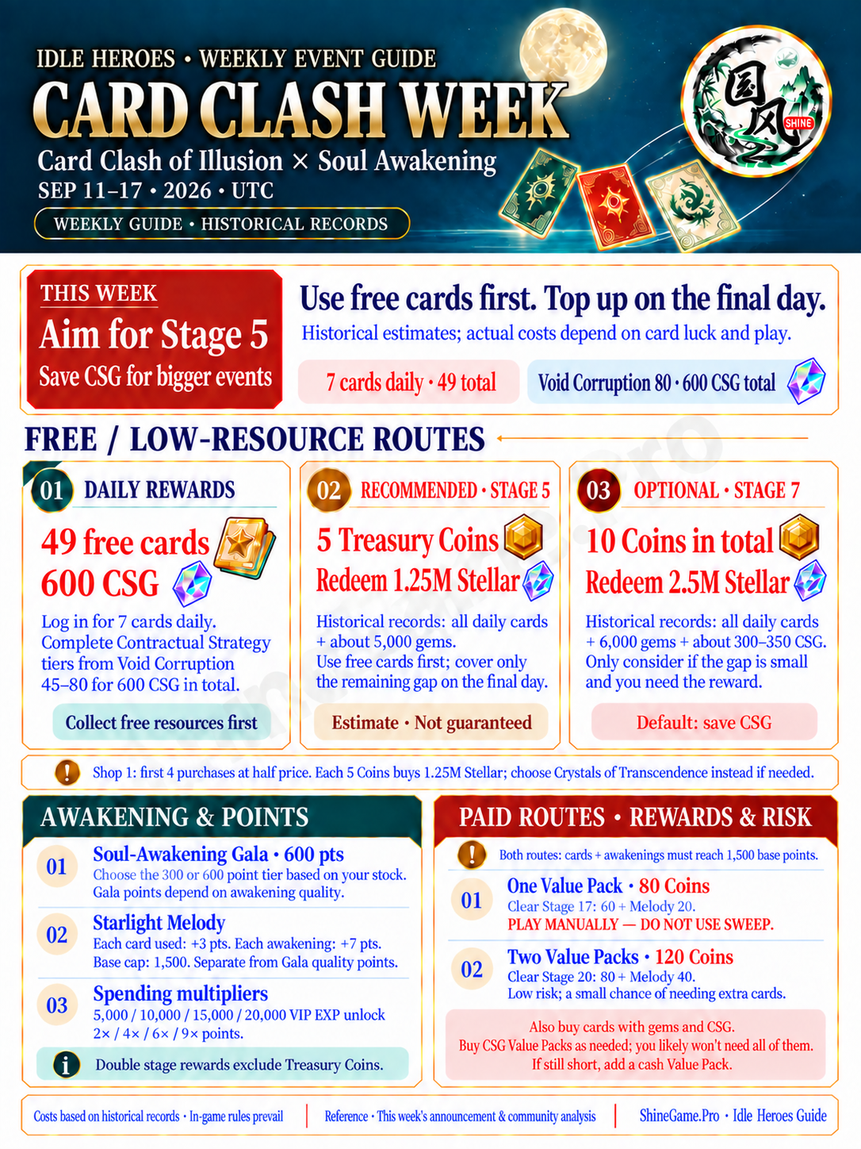
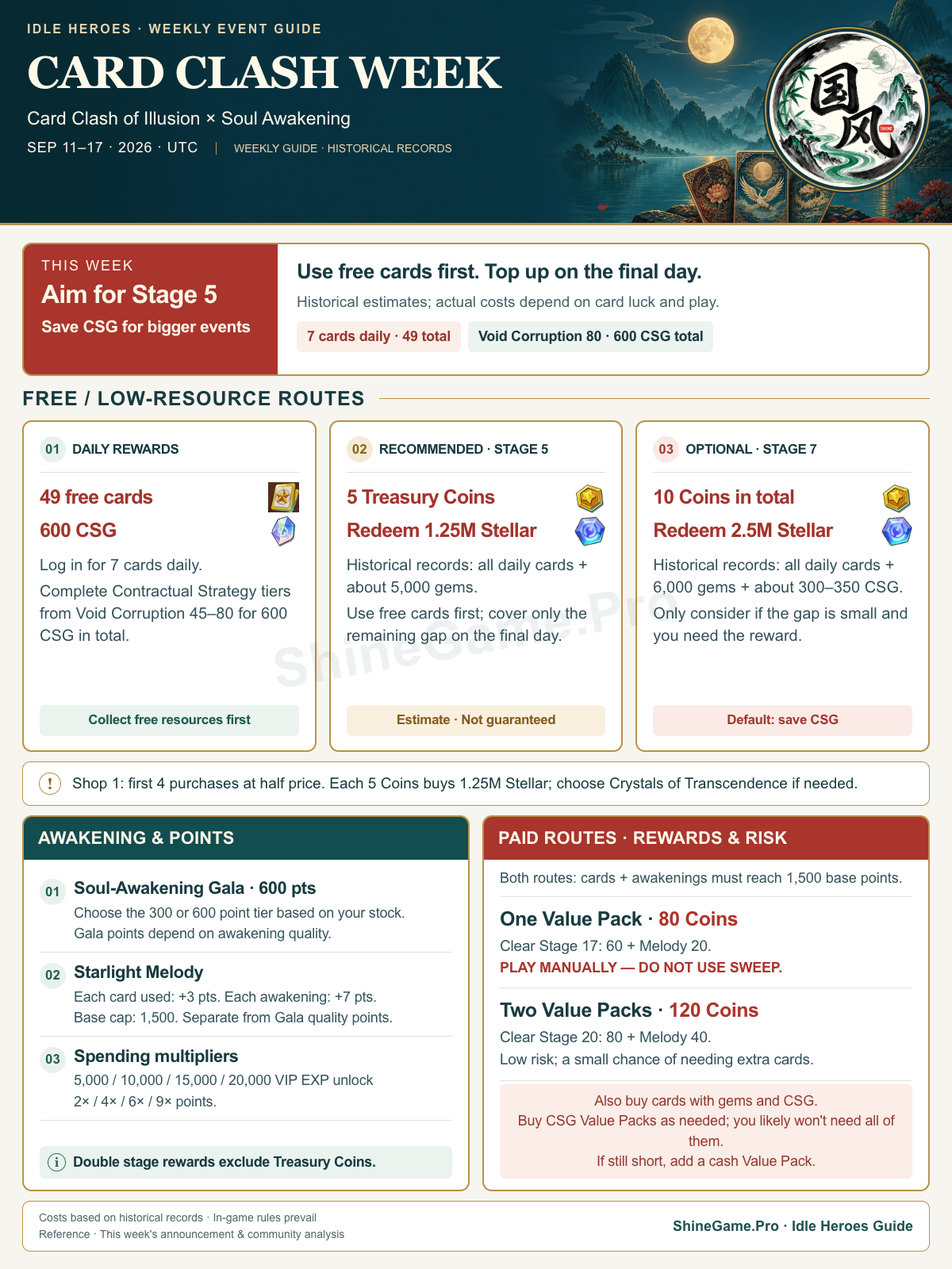
Publish crisp bilingual weekly guide with editable source workflow

diff --git a/skills/ih-guide-images/SKILL.md b/skills/ih-guide-images/SKILL.md
@@ -1,0 +1,79 @@
+---
+name: ih-guide-images
+description: 在 repo1 项目制作、修改和核对 Idle Heroes 攻略图，重点支持周活动的 Discord 资料核对、中文文案审阅、预览及中英文正式图。普通玩法攻略复用视觉与验收流程，不套用周活动奖励或来源。
+---
+
+# Idle Heroes 攻略图
+
+项目内攻略图的默认入口。按用户本轮要求选择记录、文案、预览或正式制作；使用本技能不代表授权生成、付费调用或发布。
+
+以下项目路径均相对仓库根目录（本文件所在目录向上两级）。先读当前 `HANDOFF.md`（如有），只取最新状态，不沿用被后续消息取代的路线。
+
+## 资料与文案
+
+周活动固定来源：
+- 公告：https://discord.com/channels/266570913854521346/600387218086952977
+- 分析：https://discord.com/channels/266570913854521346/791624031098896404
+
+制作新一周时核对公告正文、奖励图片和当周分析，记录活动日期、时区、消息链接及读取时间。优先使用可用连接器，否则通过已登录浏览器查看；无法读取就说明缺口，不把旧资料说成最新。只修改已确认文案时不必反复联网；用户说晚点核对，就保留待核对状态。
+
+先读 `docs/guide-translations.md` 获取术语，视觉和发布细节查 `docs/guide-images.md`。普通玩法攻略使用对应知识笔记及原始来源，不强行查周活动频道。
+
+在 `IHassistant/knowledge/` 的对应笔记中分开保存：公告事实、历史经验、用户建议、推算和待确认事项。事实冲突必须指出；推荐优先级沿用用户确认口径。知识修改后运行 `node scripts/build-ih-knowledge-index.mjs`。
+
+涉及活动数字时分别核算：
+- 免费卡、购买卡、VIP档位赠卡、现金礼包直接给卡，不能漏算或重复计入。
+- 资源购买上限、已购数量及补充渠道；买满绑钻礼包后不要再建议购买同类超限礼包。
+- 把“买满后的供卡上限”与“预计实际需要购买量”分开。社区与用户的礼包组合不同时分别计算，不能只按相同现金档位套用收益范围。
+- 核对手动、扫荡等操作方式是否改变消耗或通关结论。依赖手动的路线要在成图显式注明，不能为了精简文案省略操作条件。
+- 单关奖励与累计奖励、基础积分与倍率、卡牌/觉醒次数积分与觉醒品质积分。倍率只作用于来源明确指定的奖励。
+- 达成关卡及积分条件后才得到的收益，不写成购买礼包即保证获得。少量历史记录不能证明成功概率；用户经验风险判断要在笔记里注明来源。
+
+成图只呈现有助于决策的内容：推荐目标、投入组合、收益、必要前提和简短风险。详细算式留在笔记，用户要求才展开。可用确认过身份的道具图标＋数量省略重复资源名。
+
+中文使用自然说法，如“最后一天”“按实际进度补缺口”，不用“末日”。不放“公告已核对”之类制作过程说明。引用历史经验时写“参考历史记录”，旧日期与频道长链接只留在资料笔记。
+
+## 按当前请求交付
+
+- **先记录／晚点再改**：更新现有项目记录，不调用图像生成。
+- **文案审阅**：提供完整、可审核的成图文案；用户指定先 review 时，正式图等确认后再做。
+- **中文预览**：按已有口径制作中文预览，明确尚未核对的来源；不顺带生成英文或发布。保留版本文件和提示词在 `output/<主题或日期>/`。
+- **正式版**：确保本轮所需资料已核对、文案已确认；周图默认制作匹配中英文，用户只要中文则遵从。仅翻译不改变数值、条件、风险或承诺。旧英文稿不能当最新稿。
+
+每次修订维护一个清楚的“当前稿”，将旧版本标为追溯资料；不要不断追加多个互相冲突的“最新”段落。优先复用现有记录，只有未完成工作需要交接时维护 `HANDOFF.md`。
+
+## 视觉与生成
+
+最新默认视觉是**简洁国风顶部＋纯色正文**：顶部可用月夜山水、少量卡牌或当周主题元素，给标题留出干净空间；正文框不用山水、竹叶、红枫或纹理背景。彩色功能条和道具图标可保留。用户另有明确要求时再调整。
+
+周图沿用深青／水墨、玉绿、朱砂红、克制古金和暖白配色。标题、摘要、资源路线、积分／付费及底注分层清楚，不固定每周必须有相同数量路线。
+
+- 周图使用原始透明国风Logo `flipgame/assets/guofeng-guild-logo.png`，不要让模型反复重画字样或印章。1200×1600设计基准的Logo为196×196，2倍输出对应392×392。普通攻略沿用项目ShineGame Logo/QR规则。
+- 自制中文和英文各保留**一处**淡色斜向 `ShineGame.Pro` 水印，横向居中并位于画面中部的正文区域；大小应能跨越中部内容区，不能缩成某张卡片的角标。文字放在水印上层，保持关键数字清楚，并检查整行水印没有被卡片或标签截断；页眉及Logo区保持干净。外部原图及其直接翻译不加自制水印。
+- 底注品牌固定 `ShineGame.Pro · Idle Heroes Guide`；并入现有不透明说明卡，不额外堆底栏。紧凑元数据用 `·` 分隔。
+- 图标优先用户提供图及来源中身份已核对的素材，保存来源映射。不要混淆卡牌、钻石、绑钻、星碎和宝库币。
+
+### 默认制作流程：确认文案后，从可编辑源稿导出
+
+密集文字攻略默认采用分层排版。先确定完整中英文文案，将其保存为独立的文本或结构化数据；数字、条件和风险以这份文案为准。复用当前已确认口径时不重新启动内容审批。
+
+- **干净素材**：需要插画时，用 `imagegen` 单独生成无文字的背景或装饰素材。Logo 和已核实的道具图标直接复用原始文件，不交给模型重画；正文使用纯色底。
+- **可编辑排版**：在 HTML/CSS、SVG 或其他适用的可编辑源稿中独立绘制文字、边框、色块和一处水印。可编辑源稿是修改入口，导出的 PNG 是交付产物。
+- **每次重新导出**：改文案或布局时修改源文件，再从原始素材重新渲染整张图。沿用未改动的干净背景即可，不必每次重生成插画；不把上一版成图作为下一轮补字或翻译的底图。旧成图只用于对照内容或风格。
+- **双语分别排版**：中英文共享版式和素材，从各自确认文案分别渲染；允许按语言调整字号、换行和留白，不能为挤进框里省略条件或缩小关键数字。
+- **原生尺寸导出**：当前周图默认从1200×1600排版源按1倍像素密度直接导出；用户需要更大图时，再从同一源稿按2倍渲染2400×3200，不先输出小PNG再放大。检查插画及图标的真实像素与最终显示尺寸，避免低清素材被过度放大。
+- **保留复现入口**：在 `output/<主题或日期>/` 保留当前文案、排版源、素材来源、生成提示词及导出命令。修订可以覆盖尚在调整的同一预览版本；已交付旧版本保留追溯。水印优先在源稿里生成一次。
+
+9/11双语重制的可运行例子及验收记录见 [从源稿重制的示例](references/clean-source-workflow.md)。该例的周活动文案只适用于对应日期，复用布局不能沿用过期数字。
+
+用户明确要求整张图由图像模型生成时，遵从指定方式；仍从确认文案和干净素材重新生成，并核对所有文字与真实尺寸，不承诺提示词能保证清晰或逐像素不变。使用图像生成或编辑时读取可用的 `imagegen` 技能并遵从其工具规则。不要为提升尺寸擅自改用付费API，不用脚本绕过当前图像编辑工具限制；上述可编辑排版流程是新建源稿，不是对旧位图进行脚本修补。
+
+当前周图默认1200×1600，以实际小字清楚、边框和素材干净为准；不强制每次生成2400×3200。**提示词写了高清不代表输出达到高清**：检查真实像素及100%小字，放大低分辨率图片不能证明恢复细节。若用户指定其他尺寸而未达到，如实说明；是否切换工具按其实际授权规则处理。复用素材并在本地重新导出不调用图像模型，不把缩小导出PNG说成已按像素比例节省生成token。
+
+## 验收与发布边界
+
+打开最终中英文文件目视检查日期、小字、全部数字、资源图标、Logo原字、纯色正文、水印单处可见、底注及边缘遮挡。除了整图，还要查看100%原尺寸局部，检查细边框、字缘和背景细节；有HTML等排版源时检查字体和图片已加载、容器溢出与元素遮挡。可用 `sips -g pixelWidth -g pixelHeight <图片>` 核对真实尺寸。文字层清晰不能代替素材清晰度验收。源稿已有水印时不再运行水印脚本；无水印图如需使用该脚本，先遵守适用工具规则且仅执行一次。结构检查不能代替视觉验收。
+
+预览保存在 `output/`；正式站内图片按 `docs/guide-images.md` 放入 `flipgame/images/`。只在获得当次相应授权后提交、推送或部署，保留无关dirty改动。周图发布按该文档更新唯一当周入口和历史图集，中英文同步，使用本地HTTP预览及相关路由检查；未经线上验证不声称已发布。
+
+需要理解本次规范的来源、9/11路线或当前待办时，读 [本次对话总结](references/2026-09-11-session.md)。这是一个有日期边界的案例，不是每周通用活动规则。

diff --git a/docs/guide-images.md b/docs/guide-images.md
@@ -3,6 +3,8 @@
 页面：`flipgame/GuideImages.html`  
 图片目录：`flipgame/images/`
 
+项目攻略图默认技能：[`ih-guide-images`](../skills/ih-guide-images/SKILL.md)。本次周攻略讨论的总结和案例见[9/11 对话记录](../skills/ih-guide-images/references/2026-09-11-session.md)。
+
 ## 当前规则
 
 - 攻略图统一放在 `flipgame/images/`。
@@ -11,13 +13,13 @@
 - 页面内卡片手动维护标题、图片路径和描述。
 - 主页“周活动攻略”固定链接到 `GuideImages.html?guide=weekly-current`，进入后直接显示 fit 当前页面的本周图片，不展开历史周次；攻略页只保留一个周活动卡片，`data-image` / `data-image-en` 指向本周图片，`data-images` / `data-images-en` 按新到旧维护本周与历史周图片。只有在攻略图片列表中打开周活动卡片时，才显示带缩略图和日期的周次选择条，每次切换并显示一张。
 - 每周图片使用带日期的稳定文件名：中文 `weekly-event-YYYY-MM-DD.jpg`，英文 `weekly-event-YYYY-MM-DD-en.jpg`。更新当周时新增一组日期文件，并更新唯一周活动卡片的本周路径与历史图集列表；旧图片继续保留为历史归档。
-- 每周攻略默认导出 2400×3200 高清版（或同等 2× 像素密度），发布前必须按实际尺寸检查中英文小字清晰度。
+- 每周攻略当前默认导出 1200×1600，发布前按实际尺寸检查中英文小字清晰度；用户需要更大尺寸时，再从同一排版源直接导出2400×3200。
 - 普通站内攻略图保留 ShineGame 二维码；周活动攻略图按下方“周活动国风视觉规范”改用国风公会 Logo。用户明确要求外发无二维码版本时，另存为 `weekly-event-YYYY-MM-DD-<platform>.png`（例如 `-tieba.png`），不替换站内图片。
 - 有文字的站内生成攻略图同时维护英文 `*-en.png` 版本。`GuideImages.html` 读取首页保存的 `localStorage.flipgame_lang`：中文显示原图，英文显示 `data-image-en` / `data-images-en` 指向的英文图。
 - 底部品牌统一使用 `ShineGame.Pro  ·  Idle Heroes Guide`；底注和紧凑元数据使用中间点 `·` 分隔，不使用逗号串联。
 - 需要标注来源时使用简短的 `Reference · <来源>`，避免在图中放长链接或频道编号。
 - 自制攻略图在正文中段统一加一处淡色斜向 `ShineGame.Pro` 水印；页眉和二维码区域必须保持干净。外部收集原图，以及直接从外部原图翻译生成的版本，不加 ShineGame 水印。
-- Python 生成器会自动加水印。每周活动图等独立渲染产物，应在新鲜无水印源图上执行 `python3 scripts/apply-guide-watermark.py <输入图> <输出图>` 一次；不要对已带水印图片重复处理。导出后必须打开中英文最终图片，以肉眼确认正文中段的水印实际可见；模板或脚本中存在水印代码不算验收通过。
+- 优先在可编辑排版源中生成一处水印；已有Python生成器会自动加水印。只有源稿未带水印、且适用工具规则允许时，才在新鲜无水印图上执行 `python3 scripts/apply-guide-watermark.py <输入图> <输出图>` 一次；不要对已带水印图片重复处理。导出后必须打开中英文最终图片，以肉眼确认正文中段的水印实际可见；模板或脚本中存在水印代码不算验收通过。
 - 奇幻梦工厂隐藏关图片本身没有文字，中英文共用原图；远征推图使用单独的 `expedition-stage-map-en.png` 英文编号版。
 - 图片页面文案包含：`部分图片收集于网络，公众号。特此感谢作者！`
 - 部分图片已加站内二维码角标。
@@ -45,11 +47,14 @@
 - 周活动站内图右上角用国风 Logo 替代 ShineGame 二维码；中文与英文版本共用同一个 Logo。其他类型的站内攻略仍沿用 ShineGame Logo/二维码规则。
 - 设计源画布为 1200×1600 时，Logo 使用 196×196 px（约为画布宽度的 16.3%）；2× 导出为 2400×3200 时对应约 392×392 px。Logo 使用浅色圆形衬底、古金细边和深色外圈，保持字形清楚。
 - 主视觉配色固定为水墨黑 / 深青、玉石绿、朱砂红、克制的古金和暖白内容卡片；避免高饱和霓虹色或过多装饰。
+- 最新默认：顶部背景简洁，给标题留出干净空间；正文卡片使用纯色底，不添加山水、竹叶、红枫或纹理背景。道具图标、功能色条及单处淡水印保留。用户另有明确要求时再调整。
 - 推荐版式保持：深色主标题页眉、活动摘要卡、三张资源路线卡、双栏付费与避坑区、底部说明卡。每周可以替换内容，但保持阅读层级和留白节奏一致。
-- 正文中段必须保留一处淡色斜向 `ShineGame.Pro` 水印；水印不能压住关键数字，页眉和 Logo 区域保持干净。
+- 画面中部的正文区域保留一处淡色斜向 `ShineGame.Pro` 水印，横向居中、适当放大，不缩成单张卡片里的小角标。文字与关键数字置于水印上层，整行水印不应被标签等元素截断；页眉和Logo区域保持干净。
 - 底部品牌必须保持为 `ShineGame.Pro  ·  Idle Heroes Guide`，不要改成公会名。若已有底部说明卡，把品牌合并进该卡，不另加底栏。
 - 底部说明卡必须使用完全不透明的底色，并去掉会在圆角边缘露出主背景色的内阴影或彩色边条；重点检查左下角和右下角。
-- 最终中文、英文图均导出 2400×3200 高清版；发布前以实际像素尺寸检查标题、正文、数字、水印、Logo 与底部品牌的清晰度和遮挡情况。
+- 最终中文、英文图当前默认1200×1600；发布前以实际像素尺寸检查标题、正文、数字、居中水印、Logo与底部品牌的清晰度和遮挡情况。
+- 生成提示词中的尺寸不等于实际输出尺寸。必须读取文件像素；不能把1086×1448等尺寸的输出称为2400×3200高清图，简单放大也不能证明细节恢复。保留确认过的文案与干净素材，避免连续整图编辑造成文字模糊及Logo漂移。
+- 密集文字周图默认先确定中英文文案，再从干净素材建立可编辑排版源。插画单独生成，文字、边框、色块、水印独立排版，Logo和图标直接复用原文件。每次修改源稿并重新导出，不将上版PNG继续补字或作为英文翻译底图；流程与可运行示例见[`ih-guide-images`](../skills/ih-guide-images/SKILL.md#默认制作流程确认文案后从可编辑源稿导出)。
 
 ## 英文版生成
 
@@ -76,13 +81,19 @@
 
 ## 每周活动更新流程
 
-1. 根据当周资料制作中文和英文两张同版式 2400×3200 高清攻略图，按 `weekly-event-YYYY-MM-DD.jpg` / `weekly-event-YYYY-MM-DD-en.jpg` 保存；按实际尺寸检查正文、小字和数字清晰度。
+固定来源：先查看 [周更新公告](https://discord.com/channels/266570913854521346/600387218086952977)，再查看 [周更新分析](https://discord.com/channels/266570913854521346/791624031098896404)。分析未更新时可参考历史记录，但须逐项核对当周公告与奖励图片，不把旧活动名称、档位或英雄珍宝评价直接套用。
+
+- 成图只写“参考历史记录”，不显示旧分析的具体日期；完整来源链接与日期保留在知识笔记中。
+- 适当使用来源中实际的小道具图标，搭配数字与简短资源名，避免纯文字堆叠；先确认每个图标的身份，尤其区分钻石、绑钻、星碎和宝库币。图标保持小而清晰，不用猜测图案替代真实资源。
+- 活动名称与奖励档位分开写。例如 600 分 Soul-Awakening Gala 中的 100 分奖励档，不应写成一个独立的“100 分活动”；最高档也不等于人人都应该完成的目标。
+
+1. 根据当周资料制作中文和英文两张同版式1200×1600攻略图（用户指定时再导出更大尺寸），按 `weekly-event-YYYY-MM-DD.jpg` / `weekly-event-YYYY-MM-DD-en.jpg` 保存；按实际尺寸检查正文、小字和数字清晰度。
 2. 更新 `GuideImages.html` 最前面的唯一周活动卡片：`data-image` / `data-image-en` 改为当周图片，并把当周图片路径插入 `data-images` / `data-images-en` 列表最前面。
 3. 不另建历史周活动卡片；旧日期文件继续保留，并通过周活动卡片的 `data-images` / `data-images-en` 与 `data-labels` / `data-labels-en` 按新到旧提供缩略图周次选择。
 4. 同时维护卡片的中英文标题、说明、图片路径和替代文本。
 5. 验证主页入口会自动打开当周图，且 `flipgame_lang=zh` / `en` 分别加载中文图 / 英文图。
 6. 周活动站内图使用 `flipgame/assets/guofeng-guild-logo.png`，不放二维码；其他攻略仍保留 ShineGame 二维码。仅在用户明确要求时另存平台外发版，平台后缀需写入文件名且不得覆盖站内图。
-7. 对中文和英文无水印成图各执行一次 `scripts/apply-guide-watermark.py`，然后打开最终图片，确认正文中段有且仅有一处淡色斜向 `ShineGame.Pro` 水印，并且没有遮挡关键数字。
+7. 打开最终中英文图片，确认正文中段有且仅有一处淡色斜向 `ShineGame.Pro` 水印，并且没有遮挡关键数字。源稿已包含水印时不再后加；仅对允许后处理的无水印成图执行一次 `scripts/apply-guide-watermark.py`。
 
 ## 命名建议
 

diff --git a/skills/ih-guide-images/references/2026-09-11-session.md b/skills/ih-guide-images/references/2026-09-11-session.md
@@ -1,0 +1,63 @@
+# 9/11 周攻略对话总结与案例
+
+整理于2026-09-10。所有项目路径相对仓库根目录。此文总结用户确认的最终方向，不能把本周数值直接套入未来活动。
+
+## 当前交付与流程
+
+当前本地预览为`output/weekly-event-2026-09-11/fresh-v17/`中的中英文v17，按用户后续要求改为1200×1600，水印放大并位于画面中央。此前v16完成了2400×3200从源稿重制验证，v17复用其干净素材与确认文案，直接以1倍像素密度重新渲染，没有再次调用图像模型。流程见[从源稿重制的示例](clean-source-workflow.md)。只验证本地预览，未替换线上图。
+
+此前中英文v15位于`output/weekly-event-2026-09-11/weekly-event-2026-09-11-reviewed-{zh,en}-v15.png`，实际1086×1448。用户知悉尺寸后已授权发布，发布记录见该输出目录README。当前文案沿用当周分析核对及用户逐条确认结果，保留纯色正文、水印和单超值手动勿扫荡提醒。未获切换API授权。
+
+## 对话中保留下来的经验
+
+- 用户希望先把推荐和收益逻辑讲清楚，再压缩成易读文案；不要每次把所有算式搬进图里。
+- “7/2、8/6旧分析”只保留在来源笔记，画面用“参考历史记录”。
+- 初稿觉醒100分标题错误：这周是最高600分的完整Soul-Awakening Gala，100只是奖励档。用户推荐看库存做300或600分档，不能与觉醒次数混算。
+- 真实图标比重复文字直观。卡牌采用用户提供的金框星形卡图，其他资源用已确认原始图标，身份不能互换。
+- 连续整图编辑导致模糊和Logo细节漂移；“重绘/高清”要实际验收，不能只看生成提示词。
+- 用户先喜欢英文框内背景，试做后认为太深太乱，最终要求正文不使用背景图。最新选择覆盖早期风格尝试。
+- 最终文案：活动名“契约战略”；“末日”改“最后一天”；删除“公告已核对”；付费提示为“按实际进度购买绑钻超值礼包，不够再追加现金超值礼包”。
+- 用户最后要求正文加水印，但说晚点改；创建本技能不代表立即改图。
+
+## 本周计算案例：已确认口径与证据边界
+
+完整来源和公告奖励见 `IHassistant/knowledge/modes/weekly-event-2026-09-11.md`。以下供卡与风险包含用户回忆及判断。后续9/10 18:31 UTC新分析已读取：152张对应礼包花费写9,000绑钻，与此前两个2,500说法冲突，价格表仍待核验；见 `output/weekly-event-2026-09-11/discord-review-2026-09-10.md`。不得把此前5,000礼包预算作为已核实事实。
+
+免费领取49张卡；契约战略腐蚀45–80档累计600绑钻。第5/7层累计5/10币，商店1前4次半价每5币换125万星碎；免费路线消耗是历史估算。
+
+用户截图第一次通关17层384张。第二次前16层376张，第17层若同样29张则合计405张；均值394.5，用户要求简写“约395张”。不能把推测的第二次完整记录说成无条件实测。18–20层每层32张为讨论中的估算，合计20层约491张。
+
+| 供卡项目 | 单大超值 | 双大超值 |
+|---|---:|---:|
+| 月夜赠礼VIP档赠卡 | 5,000 VIP：50 | 10,000 VIP：100 |
+| 钻石购卡 | 60 | 60 |
+| 绑钻购卡 | 60 | 60 |
+| 绑钻超值礼包上限 | 76×2＝152 | 76×2＝152 |
+| 七天登录 | 49 | 49 |
+| 现金大超值直接给卡 | 40 | 80 |
+| 合计 | 411 | 501 |
+
+大超值648元/99美元给40张，小超值328元/49美元给20张；野餐不直接给卡。旧387算式中的额外16张曾被猜为750＋250绑钻礼包；后续确认76×2已是上限，因此最终预算不能再叠加16张。上表是购满后的可用量预算，不代表文案建议一开始买满；按实际进度购买，已到上限仍缺卡则追加现金超值。
+
+付费共同前提：觉醒＋打牌做到星海旋律基础1,500分；每张卡3分、每次觉醒7分，与Gala品质积分不同。
+
+| 最终成图路线 | 达成条件 | 奖励拆分 | 成图风险 |
+|---|---|---|---|
+| 一个超值礼包 | 通关17层＋基础1,500分，5,000 VIP两倍 | 累计通关60＋旋律20＝80币 | 风险较小，小概率需补卡 |
+| 两个超值礼包 | 通关20层＋基础1,500分，10,000 VIP四倍 | 累计通关80＋旋律40＝120币 | 风险较小，小概率需补卡 |
+
+“风险较小”是用户经验判断，不是统计验证。通关币不翻倍；礼包本身不直接保证这些币。双野餐及野餐＋超值路线均已移出最终图，不恢复旧的混合方案120币推荐。
+
+## 资料与交接位置
+
+- 游戏事实和溯源：`IHassistant/knowledge/modes/weekly-event-2026-09-11.md`
+- 素材和图标映射：`output/weekly-event-2026-09-11/icons/README.md`
+- 预览版本、提示词及交付：`output/weekly-event-2026-09-11/`
+- 当前预览与复现入口：`output/weekly-event-2026-09-11/fresh-v17/README.md`；已完成本轮调整，不创建`HANDOFF.md`。
+- 可复用术语和品牌发布规范：`docs/guide-translations.md`、`docs/guide-images.md`
+
+后续用户确认：152张绑钻礼包最高成本9,000，旧2,500×2作废。两条路线大概率不用买满152张，411/501仅为买满后的供卡上限。成图按实际进度购买，不要求提前花满9,000。
+
+## 用户逐条确认：单超值路线必须手动
+
+用户确认单超值礼包路线基本能保证17层、80币，但一定要手动打牌，不能使用游戏内扫荡。此为用户经验判断，不能归为社区已验证保证，也不改成无条件100%保底。共同前提仍为觉醒＋打牌基础1,500分，并按实际进度购买所需钻石/绑钻卡。成图单超值路线必须显式保留“手动打牌，勿用扫荡”，不能因精简文案省略此条件。用户正在逐条回复，本次仅记录，不生成图片；未将此条自动扩展为双超值的已确认结论。

diff --git a/skills/ih-guide-images/references/clean-source-workflow.md b/skills/ih-guide-images/references/clean-source-workflow.md
@@ -1,0 +1,31 @@
+# 从干净素材和可编辑源稿重制
+
+适用于需要修改攻略文案、避免连续整图编辑损伤细节的场景。2026-09-10用户要求用现有文案彻底重做中英文图，并在可行时更新技能；用户随后确认采用1200×1600、居中水印，并授权推送本版。
+
+## 已验证示例
+
+当前用户选择为`output/weekly-event-2026-09-11/fresh-v17/`的1200×1600双语版：复用v16素材，以1倍像素密度直接渲染；水印中心(600,800)、68px字、逆时针10°、7.5%不透明度，文字置于水印上层。`node output/weekly-event-2026-09-11/fresh-v17/build.mjs`可重新导出；文案与v16一致，不重新调用图像生成模型。当前周图默认尺寸与居中水印规则已同步更新至技能入口。
+
+当前可复现源文件均随本次提交保存：
+
+- `output/weekly-event-2026-09-11/fresh-v17/copy.json`：当前确认中英文文案。
+- 同目录`build.mjs`：读取文案与原始素材，创建自包含HTML，在隔离Chrome中以1倍像素密度渲染。等待字体及图片解码后截图，检查主要容器溢出、资源卡正文与标签遮挡、水印数量和中心。
+- `output/weekly-event-2026-09-11/fresh-v16/header-original.png`与`header-prompt.txt`：仅生成一次的干净插画及提示词。
+- `output/weekly-event-2026-09-11/icons/`：原始游戏资源及来源映射；公会Logo复用`flipgame/assets/guofeng-guild-logo.png`。
+- 正式站内图片：`flipgame/images/weekly-event-2026-09-11.png`及`weekly-event-2026-09-11-en.png`。
+
+从仓库根目录重新导出：
+
+```bash
+node output/weekly-event-2026-09-11/fresh-v17/build.mjs
+```
+
+导出生成同目录的`weekly-event-2026-09-11-{zh,en}-v17.html`和`.png`，以及`qa/report.json`、局部检查截图。这些预览、截图和报告不作为源文件提交；正式站内PNG从验收后的输出复制。此前已验证同源2倍导出2400×3200可行，但当前不默认输出大尺寸。
+
+此示例使用项目`flipgame/node_modules/playwright`和本机Google Chrome；其他环境采用实际可用的渲染器，不为匹配示例擅自安装或切换服务。页面不读取CSV/JSON、不访问外部网络，数据和素材已嵌入，因此导出的独立HTML可用本地文件方式渲染。需要fetch的站内页面仍按根AGENTS.md启动HTTP服务。
+
+## 可复用的结论
+
+此次文字、边框、底色和水印均为源稿里的独立元素，背景只生成一次，Logo和道具图标直接嵌入原文件；没有使用v15整图作为输入。布局调整后重新渲染，不会让模型重新解释已有文字和边缘。图像素材自身的质量仍需要单独验收。
+
+验收包括中英文整图及100%原尺寸局部、实际1200×1600尺寸、无容器溢出、单处水印、原始Logo，以及5,000钻石、300–350绑钻、80/120币、1,500分和手动勿扫荡等条件。用户后续的风格反馈仍应回到源稿修改；发布授权按当次请求执行，不沿用本次授权。

diff --git a/output/weekly-event-2026-09-11/fresh-v17/README.md b/output/weekly-event-2026-09-11/fresh-v17/README.md
@@ -1,0 +1,19 @@
+# 9/11 周攻略 · 小尺寸双语 v17
+
+当前发布源稿，文案沿用v16确认版本。用户要求采用较小分辨率，并把水印放大、移到画面中间。
+
+- 中文：[1200×1600 PNG](../../../flipgame/images/weekly-event-2026-09-11.png) · [独立HTML](weekly-event-2026-09-11-zh-v17.html)
+- 英文：[1200×1600 PNG](../../../flipgame/images/weekly-event-2026-09-11-en.png) · [独立HTML](weekly-event-2026-09-11-en-v17.html)
+- 文案：[copy.json](copy.json) · 导出脚本：[build.mjs](build.mjs) · 验收：[qa/report.json](qa/report.json)
+
+直接从1200×1600排版源以1倍像素密度渲染，没有缩放旧成图。复用v16的干净页眉插画、原始Logo及道具图标；本次没有调用图像生成模型。图像生成token与本地PNG导出尺寸是两件事，不能把像素减少比例当成总token节省比例。
+
+水印中心为画布中心(600,800)，68px字、逆时针10°、7.5%不透明度；文字和关键数字在水印上层。两版各一处水印，整行没有被卡片标签截断。本次用户已授权推送，站内使用相同的1200×1600输出。
+
+```bash
+node output/weekly-event-2026-09-11/fresh-v17/build.mjs
+```
+
+已检查真实尺寸、整图及原尺寸局部；中英文无主要容器溢出，水印中心位置检查通过。此版只改导出分辨率和水印，源文案与v16逐字一致。
+
+导出生成的HTML、预览PNG及qa目录仅供本地验收，不随源文件提交；需要查看时运行上方命令。实际生产部署结果记录在项目progress.md。

diff --git a/output/weekly-event-2026-09-11/icons/README.md b/output/weekly-event-2026-09-11/icons/README.md
@@ -1,0 +1,13 @@
+# Discord 资源图标
+
+来源：用户指定的 [IHD 周活动分析频道](https://discord.com/channels/266570913854521346/791624031098896404)，2026-09-10 读取页面中图片的 alt 和 src 后下载。文件保留原始 WebP 字节，不更换成猜测图案。
+
+| 文件 | 资源 | Discord emoji alt | 来源 |
+|---|---|---|---|
+| gems.webp | 钻石 | :gems~1: | https://cdn.discordapp.com/emojis/455856986572193802.webp?size=96 |
+| csg.webp | 绑钻 | :3CSG: | https://cdn.discordapp.com/emojis/1264891541567045778.webp?size=96 |
+| stellar.webp | 星碎 | :stellar: | https://cdn.discordapp.com/emojis/871388405894889513.webp?size=96 |
+| treasury-coin.webp | 宝库币 | :4GloriousTreasuryCoin: | https://cdn.discordapp.com/emojis/1443163218431443067.webp?size=96 |
+| enchanted-card-user.png | 卡牌 | 用户提供 | 2026-09-10 对话附件 codex-clipboard-472f5656-fe16-4777-b8fc-b8441c935835.png |
+
+图稿采用图标 + 数字 + 简短名称。图标是外部游戏素材，不属于 ShineGame 原创资产；不单独加品牌水印。v15曾由imagegen参考后重绘；当前v17在可编辑排版源中直接嵌入这些原始文件，按版面尺寸显示，不再由模型重画。

diff --git a/AGENTS.md b/AGENTS.md
@@ -2,6 +2,10 @@
 
 This repository contains a static tool site under `flipgame/` and an Idle Heroes knowledge base under `IHassistant/`. Follow these rules when making changes as an agent.
 
+## 攻略图默认技能
+
+在本项目制作、修改、核对或整理 Idle Heroes 攻略图（包括周活动攻略图）时，默认先读取并使用 [`skills/ih-guide-images/SKILL.md`](skills/ih-guide-images/SKILL.md)，无需用户重复点名。周活动使用其中固定 Discord 来源，普通玩法攻略只复用适用的资料、视觉和验收流程。单纯攻略网页代码调整按网页规则处理，不强制进入制图流程。用户本轮明确要求优先；“先记录／晚点改”不自动生成图片，预览不等于正式版或发布授权。
+
 ## Local Server
 
 Use this command from the repository root when a page reads CSV/JSON:
